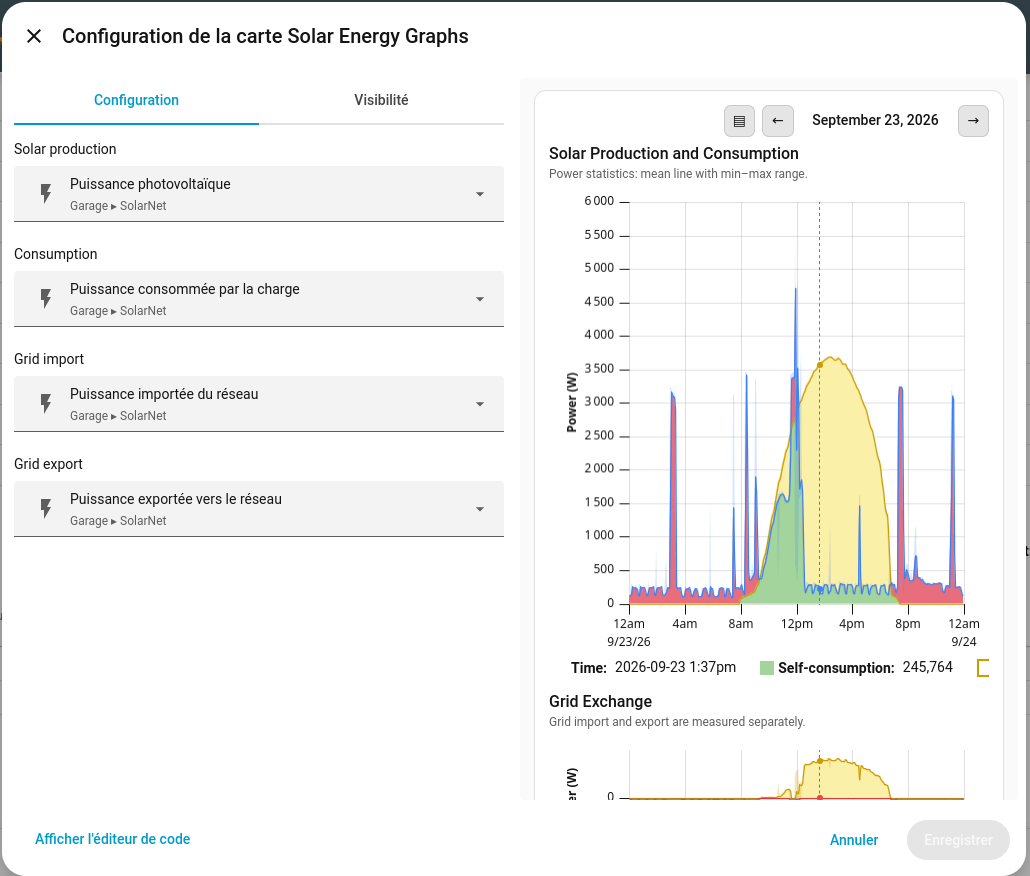
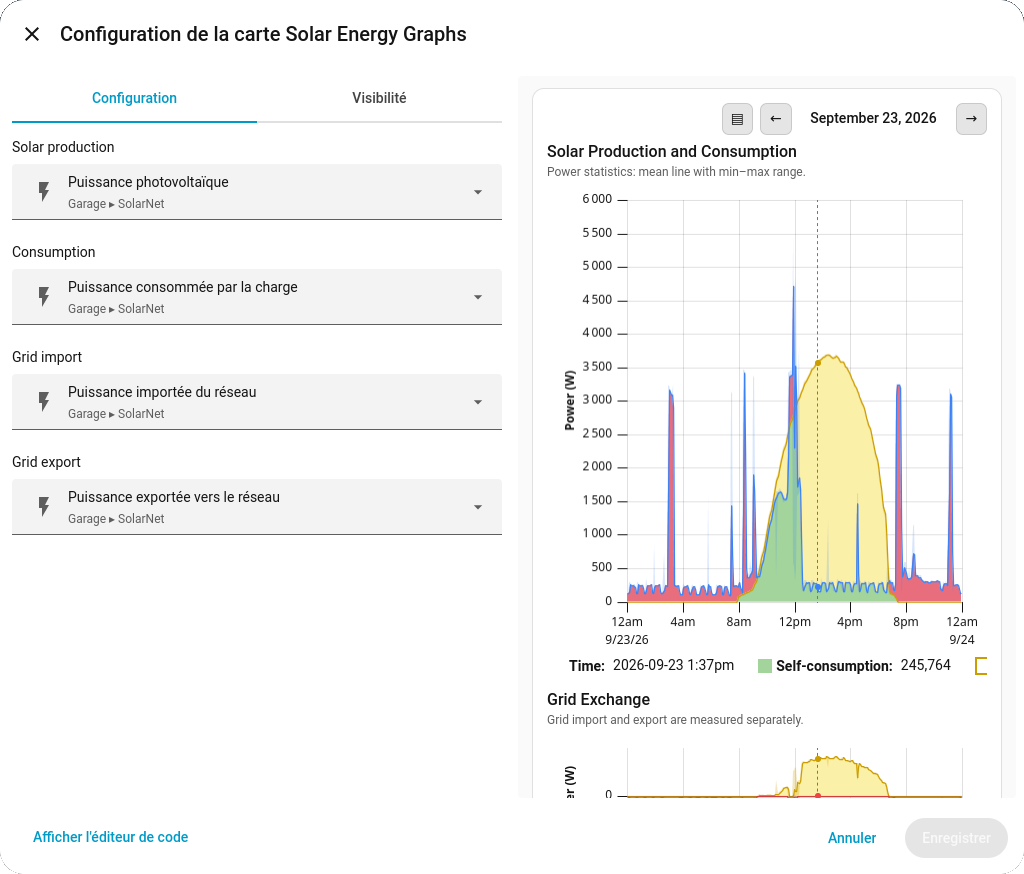
chore: Update README.md

diff --git a/README.md b/README.md
@@ -8,7 +8,7 @@
 See your solar production, household consumption, and grid exchange across a
 day in two synchronized Home Assistant graphs.
 
-![Solar Energy Graphs Card in the light theme](https://raw.githubusercontent.com/XavierBerger/Solar-Energy-Graphs-Card/main/docs/images/Solar-Energy-Graph-Card_light.png)
+![Solar Energy Graphs Card in the light theme](https://raw.githubusercontent.com/XavierBerger/Solar-Energy-Graphs-Card/main/docs/images/Solar-Energy-Graphs-Card_light.png)
 
 ## Highlights
 
@@ -174,7 +174,7 @@ grid. The graph colors and series fills are part of the card design.
 <details>
 <summary>Dark theme</summary>
 
-![Solar Energy Graphs Card in the dark theme](https://raw.githubusercontent.com/XavierBerger/Solar-Energy-Graphs-Card/main/docs/images/Solar-Energy-Graph-Card_dark.png)
+![Solar Energy Graphs Card in the dark theme](https://raw.githubusercontent.com/XavierBerger/Solar-Energy-Graphs-Card/main/docs/images/Solar-Energy-Graphs-Card_dark.png)
 
 </details>
 
